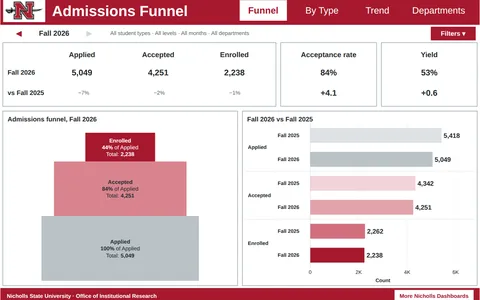
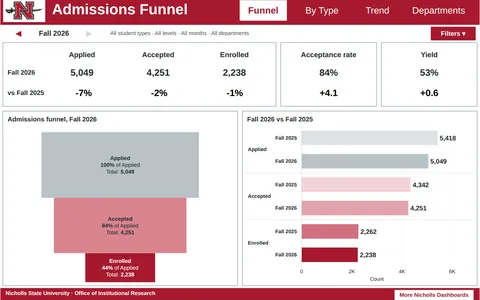
Admissions demo: match v28's label sizes and formats, funnel with Applied on top, original side drawn from its workbook

diff --git a/src/demo-dash.js b/src/demo-dash.js
@@ -48,19 +48,24 @@ function admissionsModel(D, sel) {
   };
 }
 
-// The redesign as the owner's v27 workbook (v28) lays it out (1400 × 900): red header with page buttons,
-// a fall stepper and filter summary with the filters behind one button, key figures with their change,
-// then the funnel and this fall against the one before. Tableau point sizes are drawn at 4/3 px.
+// The redesign as the owner's v28 workbook lays it out (1400 × 900), read from the .twb: zone positions,
+// the label runs' own font sizes (they override the sheets' cell styles), number formats and colors.
+// Tableau point sizes are drawn at 4/3 px. Text objects are top-aligned, as in Tableau.
 const PT = (n) => Math.round((n * 4) / 3);
 const STEP_OFF = '#d3d8da';
 const FUNNEL_FILL = ['#b9c2c6', '#d9848f', RED];
 const VS_FILL = { before: ['#dde2e4', '#f2d3d8', '#d26f7e'], sel: ['#b9c2c6', '#e3a3ac', RED] };
 const TYPE_NAME = { N: 'New FTF', T: 'Transfer', R: 'Readmit', I: 'International', A: 'Adult', Other: 'Other', grad: 'Graduate' };
+const NICHOLLS_IR = 'https://public.tableau.com/app/profile/nichollsir';
+
+// Tableau's custom formats: "*+0%;-0%;0%" and "*+#,##0.0;-#,##0.0;0.0" (a plain hyphen, blank when null).
+const tPct = (x) => (x == null || !isFinite(x) ? '' : `${x > 0 ? '+' : x < 0 ? '-' : ''}${Math.round(Math.abs(x) * 100)}%`);
+const tPts = (x) => (x == null || !isFinite(x) ? '' : x === 0 ? '0.0' : `${x > 0 ? '+' : '-'}${Math.abs(x).toFixed(1)}`);
 
 function admHeader(title, buttons, active) {
   let s = R(0, 0, W, 84, RED);
   s += R(8, 8, 123, 68, '#fff') + `<image href="${BASE}img/nicholls-n.webp" x="12" y="12" width="115" height="60" preserveAspectRatio="xMidYMid meet"/>`;
-  s += T(151, 58, title, { size: PT(32), weight: 700, fill: '#fff' });
+  s += T(151, 53, title, { size: PT(32), weight: 700, fill: '#fff' });
   [[699, 138], [861, 157], [1042, 119], [1185, 191]].forEach(([x, w], i) => {
     const on = i === active;
     s += R(x, 12, w, 60, on ? '#fff' : RED);
@@ -76,18 +81,43 @@ function filterSummary(m) {
 }
 
 function filterPanel(m) {
-  // Hidden until the Filters button is pressed, as in the workbook.
+  // Hidden until the Filters button is pressed, as in the workbook; its title row shows with it.
   let s = R(870, 131, 518, 302, '#fff', { stroke: FRAME });
+  s += `<text x="883" y="161" font-size="${PT(14)}" font-weight="700" fill="${INK}">Filters<tspan font-size="${PT(11)}" font-weight="400" fill="${MUTED}">   These apply to every page</tspan></text>`;
   const card = (x, y, title, value) => {
-    s += T(x + 4, y + 24, title, { size: PT(14), fill: INK });
-    s += R(x + 4, y + 36, 222, 30, '#fff', { stroke: '#c9cfd1' }) + T(x + 12, y + 57, value, { size: PT(12), fill: MUTED });
-    s += `<path d="M${x + 208} ${y + 47}l5 6 5-6" fill="none" stroke="${MUTED}" stroke-width="1.6"/>`;
+    s += T(x, y + 18, title, { size: PT(14), fill: INK });
+    s += R(x, y + 26, 236, 34, '#fff', { stroke: '#c9cfd1' }) + T(x + 8, y + 50, value, { size: PT(16), fill: INK });
+    s += `<path d="M${x + 218} ${y + 40}l5 6 5-6" fill="none" stroke="${MUTED}" stroke-width="1.6"/>`;
   };
   const type = m.groupKey === 'all' || m.groupKey === 'ug' ? '(All)' : TYPE_NAME[m.groupKey] || m.group;
   const level = m.groupKey === 'ug' ? 'Undergraduate' : m.groupKey === 'grad' ? 'Graduate' : '(All)';
-  card(886, 147, 'Fall term', m.fall);
-  card(886, 227, 'Student type', type); card(1136, 227, 'Level', level);
-  card(886, 307, 'Month applied', '(All)'); card(1136, 307, 'Department', '(All)');
+  card(886, 191, 'Fall term', m.fall);
+  card(886, 271, 'Student type', type); card(1136, 271, 'Level', level);
+  card(886, 351, 'Month applied', '(All)'); card(1136, 351, 'Department', '(All)');
+  return s;
+}
+
+// Tableau stacks a bar's segments in the color field's sort order; the owner's view shows the funnel
+// with Applied on top, so the stack is built from Enrolled (bottom) up to Applied (top).
+function stackFunnel(m, { cx, yT, yB, maxW, fills, inks, labelPt, underline, tour }) {
+  let s = '';
+  const app = m.cur[0] || 0, tot = m.cur.reduce((a, v) => a + (v || 0), 0);
+  const top = ticks(tot || 1, 6).top;
+  const sy = (v) => yB - ((yB - yT) * v) / top;
+  const size = labelPt, lh = Math.round(size * 1.25);
+  let acc = 0;
+  [2, 1, 0].forEach((k) => {
+    const st = ['Applied', 'Accepted', 'Enrolled'][k];
+    const v = m.cur[k] || 0, f = app ? v / app : 0, w = Math.max(maxW * f, 24);
+    const ya = sy(acc + v), yb = sy(acc);
+    const ofAcc = k && m.cur[1] ? `${pct(v / m.cur[1])} of Accepted\n` : '';
+    s += R(cx - w / 2, ya, w, yb - ya, fills[k], { tip: `${st}\n${pct(f)} of Applied\n${ofAcc}Total: ${fmt(m.cur[k])}`, tour: `${tour}-${k}` });
+    const ink = inks[k], mid = (ya + yb) / 2;
+    s += `<text x="${cx}" y="${mid - lh + size * 0.35}" text-anchor="middle" font-size="${size}" font-weight="700" fill="${ink}"${underline ? ' text-decoration="underline"' : ''}>${st}</text>`;
+    s += `<text x="${cx}" y="${mid + size * 0.35}" text-anchor="middle" font-size="${size}" fill="${ink}"><tspan font-weight="700">${pct(f)}</tspan> of Applied</text>`;
+    s += `<text x="${cx}" y="${mid + lh + size * 0.35}" text-anchor="middle" font-size="${size}" fill="${ink}">Total: <tspan font-weight="700">${fmt(m.cur[k])}</tspan></text>`;
+    acc += v;
+  });
   return s;
 }
 
@@ -95,64 +125,49 @@ function admissionsAfter(m) {
   let s = R(0, 0, W, H, '#fff');
   s += admHeader('Admissions Funnel', ['Funnel', 'By Type', 'Trend', 'Departments'], 0);
 
-  // Fall stepper: ◀ Fall 2026 ▶, an arrow greys out at the first or last fall.
+  // Fall stepper (three equal columns): ◀ Fall 2026 ▶; an arrow greys out at the first or last fall.
   const canPrev = !!m.prevCode, canNext = !!m.nextCode;
-  [[54, '◀', canPrev ? RED : STEP_OFF, canPrev ? 'prev' : ''], [157, m.fall, INK, ''], [260, '▶', canNext ? RED : STEP_OFF, canNext ? 'next' : '']].forEach(([x, t, fill, act]) => {
-    if (act) s += `<rect x="${x - 50}" y="90" width="100" height="37" fill="transparent" data-act="${act}" class="dash-act"><title>${act === 'prev' ? 'Previous fall' : 'Next fall'}</title></rect>`;
+  [[53.5, '◀', canPrev ? RED : STEP_OFF, canPrev ? 'prev' : ''], [156.5, m.fall, INK, ''], [259.5, '▶', canNext ? RED : STEP_OFF, canNext ? 'next' : '']].forEach(([x, t, fill, act]) => {
+    if (act) s += `<rect x="${x - 51}" y="90" width="102" height="37" fill="transparent" data-act="${act}" class="dash-act"><title>${act === 'prev' ? 'Previous fall' : 'Next fall'}</title></rect>`;
     s += T(x, 116, t, { anchor: 'middle', size: PT(16), weight: 700, fill });
   });
-  s += T(321, 114, filterSummary(m), { size: PT(12), fill: MUTED });
+  s += T(321, 114, filterSummary(m), { size: PT(12), fill: '#555555' });
   s += R(1258, 90, 130, 39, m.filtersOpen ? '#fff' : RED, { stroke: RED });
   s += T(1323, 116, m.filtersOpen ? 'Filters ▴' : 'Filters ▾', { anchor: 'middle', size: PT(14), weight: 700, fill: m.filtersOpen ? RED : '#fff' });
   s += `<rect x="1258" y="90" width="130" height="39" fill="transparent" data-act="filters" class="dash-act"><title>Show or hide the filters</title></rect>`;
 
-  // Key figures: Applied / Accepted / Enrolled for the fall, and the change on the fall before.
+  // Key figures: 16 pt headers, 14 pt row headers, 20 pt values; the change row is 20 pt bold black.
   s += tile(7, 136, 798, 186, '');
   const colX = (k, left) => left + ((795 - left) * (k + 0.5)) / 3;
   ['Applied', 'Accepted', 'Enrolled'].forEach((h, k) => { s += T(colX(k, 127), 178, h, { anchor: 'middle', size: PT(16), weight: 700, fill: INK }); });
   s += T(21, 230, m.fall, { size: PT(14), weight: 700, fill: INK }) + T(21, 289, `vs ${m.prevName}`, { size: PT(14), weight: 700, fill: INK });
   m.cur.forEach((v, k) => {
-    s += T(colX(k, 127), 232, fmt(v), { anchor: 'middle', size: PT(18), weight: 700, fill: INK });
-    s += T(colX(k, 133), 288, signedPct(change(v, m.before[k])), { anchor: 'middle', size: PT(12), fill: MUTED });
+    s += T(colX(k, 127), 233, fmt(v), { anchor: 'middle', size: PT(20), weight: 700, fill: INK });
+    s += T(colX(k, 133), 292, tPct(change(v, m.before[k])), { anchor: 'middle', size: PT(20), weight: 700, fill: '#000' });
   });
   [[819, 'Acceptance rate', m.acc, m.accPrev], [1113, 'Yield', m.yld, m.yldPrev]].forEach(([x, t, v, p]) => {
     s += tile(x, 136, 280, 186, '');
     s += T(x + 140, 178, t, { anchor: 'middle', size: PT(16), weight: 700, fill: INK });
-    s += T(x + 140, 232, pct(v), { anchor: 'middle', size: PT(18), weight: 700, fill: INK });
-    s += T(x + 140, 291, signedPts(v != null && p != null ? (v - p) * 100 : null), { anchor: 'middle', size: PT(18), weight: 700, fill: INK });
+    s += T(x + 140, 233, pct(v), { anchor: 'middle', size: PT(20), weight: 700, fill: INK });
+    s += T(x + 140, 292, tPts(v != null && p != null ? (v - p) * 100 : null), { anchor: 'middle', size: PT(20), weight: 700, fill: '#000' });
   });
 
-  // Funnel: one stacked bar, each status as tall and as wide as its count, Applied at the base.
+  // Funnel: one stacked bar sized by count, Applied on top; 12 pt labels.
   s += tile(7, 336, 686, 510, `Admissions funnel, ${m.fall}`);
-  const [app] = m.cur.map((v) => v || 0);
-  const tot = m.cur.reduce((a, v) => a + (v || 0), 0);
-  const yB = 832, yT = 382, top = ticks(tot || 1, 6).top, cx = 350, maxW = 460;
-  const sy = (v) => yB - ((yB - yT) * v) / top;
-  let acc = 0;
-  ['Applied', 'Accepted', 'Enrolled'].forEach((st, k) => {
-    const v = m.cur[k] || 0, f = app ? v / app : 0, w = Math.max(maxW * f, 24);
-    const ya = sy(acc + v), yb = sy(acc);
-    const ofAcc = k && m.cur[1] ? `${pct(v / m.cur[1])} of Accepted\n` : '';
-    s += R(cx - w / 2, ya, w, yb - ya, FUNNEL_FILL[k], { tip: `${st}\n${pct(f)} of Applied\n${ofAcc}Total: ${fmt(m.cur[k])}`, tour: `adm-funnel-${k}` });
-    const ink = k === 2 ? '#fff' : INK, mid = (ya + yb) / 2;
-    s += T(cx, mid - 14, st, { anchor: 'middle', size: PT(12), weight: 700, fill: ink });
-    s += `<text x="${cx}" y="${mid + 6}" text-anchor="middle" font-size="${PT(12)}" fill="${ink}"><tspan font-weight="700">${pct(f)}</tspan> of Applied</text>`;
-    s += `<text x="${cx}" y="${mid + 26}" text-anchor="middle" font-size="${PT(12)}" fill="${ink}">Total: <tspan font-weight="700">${fmt(m.cur[k])}</tspan></text>`;
-    acc += v;
-  });
+  s += stackFunnel(m, { cx: 350, yT: 380, yB: 836, maxW: 460, fills: FUNNEL_FILL, inks: [INK, INK, '#fff'], labelPt: PT(12), tour: 'adm-funnel' });
 
-  // This fall against the fall before: Status / Academic Period rows, six shades.
+  // This fall against the fall before: Status / Academic Period rows, six shades, 14 pt bold labels.
   s += tile(707, 336, 686, 510, `${m.fall} vs ${m.prevName}`);
   const rows = [];
   ['Applied', 'Accepted', 'Enrolled'].forEach((st, k) => {
     if (m.prevCode) rows.push({ st, k, lab: m.prevFall, v: m.before[k], fill: VS_FILL.before[k] });
     rows.push({ st, k, lab: m.fall, v: m.cur[k], fill: VS_FILL.sel[k] });
   });
-  const x0 = 905, x1 = 1330, rT = 372, rB = 792, band = (rB - rT) / rows.length;
+  const x0 = 880, x1 = 1320, rT = 380, rB = 790, band = (rB - rT) / rows.length;
   const { top: mx, step } = ticks(Math.max(...rows.map((r) => r.v || 0), 1), 5);
   const sx = (v) => x0 + ((x1 - x0) * v) / mx;
   for (let t = 0; t <= mx + 1e-9; t += step) s += L(sx(t), rT, sx(t), rB, '#eceeef') + T(sx(t), rB + 20, short(Math.round(t)), { anchor: 'middle', size: PT(11), fill: INK });
-  s += T((x0 + x1) / 2, rB + 44, 'Count', { anchor: 'middle', size: PT(11), weight: 700, fill: INK });
+  s += T((x0 + x1) / 2, rB + 42, 'Count', { anchor: 'middle', size: PT(11), fill: INK });
   const per = m.prevCode ? 2 : 1;
   rows.forEach((r, i) => {
     const y = rT + i * band, bh = Math.min(band * 0.62, 50);
@@ -160,55 +175,68 @@ function admissionsAfter(m) {
       s += T(723, y + (band * per) / 2 + 5, r.st, { size: PT(11), weight: 700, fill: INK });
       if (i) s += L(717, y, 1383, y, '#d5dadd');
     }
-    s += T(810, y + band / 2 + 5, r.lab, { size: PT(11), weight: 700, fill: INK });
+    s += T(803, y + band / 2 + 5, r.lab, { size: PT(11), weight: 700, fill: INK });
     s += R(x0, y + (band - bh) / 2, sx(r.v || 0) - x0, bh, r.fill, { tip: `${r.st}, ${r.lab}\nCount: ${fmt(r.v)}` });
     s += T(sx(r.v || 0) + 6, y + band / 2 + 7, fmt(r.v), { size: PT(14), weight: 700, fill: INK });
   });
   s += L(x0, rT, x0, rB, '#c9cfd1');
 
-  // Footer band with the link out to the rest of the catalog.
+  // Footer band (text top-aligned with 4 px padding, 15 px on the left) and the link to Nicholls IR on Tableau Public.
   s += R(0, 853, W, 47, RED);
-  s += T(19, 882, 'Nicholls State University   ·   Office of Institutional Research', { size: PT(12), weight: 600, fill: '#fff' });
-  s += R(1152, 859, 230, 35, '#fff', { stroke: '#fff' }) + T(1267, 882, 'More Nicholls Dashboards', { anchor: 'middle', size: PT(12), weight: 700, fill: RED });
-  s += `<a href="https://www.nicholls.edu/irep/dashboards/" target="_blank" rel="noopener"><rect x="1152" y="859" width="230" height="35" fill="transparent" class="dash-act"><title>More Nicholls dashboards (opens a new tab)</title></rect></a>`;
+  s += T(15, 873, 'Nicholls State University   ·   Office of Institutional Research', { size: PT(12), weight: 600, fill: '#fff' });
+  s += R(1152, 859, 230, 35, '#fff', { stroke: '#fff' }) + T(1267, 879, 'More Nicholls Dashboards', { anchor: 'middle', size: PT(12), weight: 700, fill: RED });
+  s += `<a href="${NICHOLLS_IR}" target="_blank" rel="noopener"><rect x="1152" y="859" width="230" height="35" fill="transparent" class="dash-act"><title>More Nicholls dashboards on Tableau Public (opens a new tab)</title></rect></a>`;
 
   if (m.filtersOpen) s += filterPanel(m);
   return s;
 }
 
+// The original Admissions Funnel page as its .twb lays it out: a 1000 × 800 dashboard (stretched to this
+// frame; text scaled by 1.2), title over one stacked funnel in Nicholls red and gray with 14 pt labels and
+// no axis, four filters down the right (Level, Academic Period, Month Applied, Student Pop) and the N
+// monogram along the bottom. Tableau's default fonts are assumed where the file sets none.
+const OX = (x) => x * 1.4, OY = (y) => y * 1.125, OPT = (pt) => Math.round(pt * (4 / 3) * 1.2);
+const ORIG_FILL = ['#b7c2cc', '#c63b51', '#a1212f'];
+const ORIG_POP = { N: 'New FTF', T: 'Transfer', R: 'Readmit', I: 'International', A: 'Adult', Other: 'Other', grad: 'Graduate ONLY' };
+
+function origList(x, y, title, items, { radio = false, checked = () => true } = {}) {
+  let s = T(x, y + OPT(9), title, { size: OPT(9), weight: 700, fill: '#333' });
+  items.forEach((v, i) => {
+    const yy = y + OPT(9) + 10 + i * 22, on = checked(v, i);
+    if (radio) {
+      s += `<circle cx="${x + 6}" cy="${yy + 7}" r="6" fill="#fff" stroke="#888"/>` + (on ? `<circle cx="${x + 6}" cy="${yy + 7}" r="3" fill="#333"/>` : '');
+    } else {
+      s += R(x, yy + 1, 12, 12, '#fff', { stroke: '#888' }) + (on ? `<path d="M${x + 2} ${yy + 7}l3 3 5-6" fill="none" stroke="#333" stroke-width="1.4"/>` : '');
+    }
+    s += T(x + 18, yy + 12, v, { size: OPT(9), fill: '#333' });
+  });
+  return s;
+}
+
 function admissionsBefore(m) {
   let s = R(0, 0, W, H, '#fff');
-  s += T(16, 48, 'Admissions Funnel', { size: 26, fill: '#333' });
-  // The original: one stacked shape sized by count, Tableau's default colors, raw field names.
-  s += plainTitle(16, 100, 'Admissions Funnel - Total');
-  const x0 = 120, x1 = 1170, y0 = 120, y1 = 690;
-  const tot = m.cur.reduce((a, v) => a + (v || 0), 0);
-  const { top: mx, step } = ticks(tot || 1, 6);
-  const sy = (v) => y1 - ((y1 - y0) * v) / mx;
-  for (let t = 0; t <= mx + 1e-9; t += step) { s += L(x0, sy(t), x1, sy(t), '#e6e6e6') + T(x0 - 8, sy(t) + 5, short(Math.round(t)), { anchor: 'end', size: 13, fill: '#666' }); }
-  s += T(36, (y0 + y1) / 2, 'COUNT', { size: 13, fill: '#666', rotate: -90, anchor: 'middle' });
-  const colors = { Accepted: TAB10[0], Applied: TAB10[1], Enrolled: TAB10[2] };
-  let acc = 0;
-  const cx = (x0 + x1) / 2, maxW = 600, app = m.cur[0] || 1;
-  ['Applied', 'Accepted', 'Enrolled'].forEach((st, k) => {
-    const v = m.cur[k] || 0, w = Math.max(60, (maxW * v) / app);
-    const ya = sy(acc + v), yb = sy(acc);
-    s += R(cx - w / 2, ya, w, yb - ya, colors[st], { tip: `STATUS: ${st}\nSUM(COUNT): ${fmt(m.cur[k])}`, tour: `adm-before-${k}` });
-    s += T(cx, (ya + yb) / 2 - 4, st, { anchor: 'middle', size: 13, fill: '#fff' }) + T(cx, (ya + yb) / 2 + 13, fmt(m.cur[k]), { anchor: 'middle', size: 13, fill: '#fff' });
-    acc += v;
-  });
-  s += L(x0, y1, x1, y1, '#999');
-  // Color legend and the filter column
-  let lx = 1210;
-  s += T(lx, 100, 'STATUS', { size: 13, weight: 700, fill: '#333' });
-  Object.entries(colors).forEach(([k, c], i) => { s += R(lx, 110 + i * 20, 12, 12, c) + T(lx + 18, 121 + i * 20, k, { size: 12, fill: '#333' }); });
-  s += rawFilter(lx, 180, 175, 'ACADEMIC_PERIOD', String(m.fallCode));
-  s += rawFilter(lx, 240, 175, 'MONTH_OF_APP', '', ['(All)', '1', '2', '3', '4', '5', '6', '7', '8', '9', '10', '11', '12']);
-  const pops = { 'New freshmen': 'N', Transfer: 'T', Readmit: 'R', International: 'I', Adult: 'A', Other: 'Other', Graduate: 'Grad' };
-  s += rawFilter(lx, 520, 175, 'STUDENT_POP', '', [pops[m.group] ? pops[m.group] : '(All)']);
-  s += rawFilter(lx, 580, 175, 'LEVELofAPPLICANT', m.group === 'Graduate' || m.group === 'Undergraduate' ? m.group : '(All)');
-  // The banner image along the bottom of the original
-  s += R(16, 720, 1170, 160, '#e9e9e9') + T(600, 808, 'banner image', { anchor: 'middle', size: 16, fill: '#999' });
+  // Dashboard title: "<Sheet Name>", then the instruction line in 12 pt.
+  s += T(OX(12), OY(12) + OPT(18), 'Admissions Funnel', { size: OPT(18), weight: 600, fill: '#333' });
+  s += T(OX(12), OY(64), 'Choose Undergraduate and/or Graduate Applicants and Academic Period.', { size: OPT(12), fill: '#333' });
+
+  // Funnel sheet: title "<Level> Applicants in <Academic Period> Semester(s)", no axis.
+  const level = m.groupKey === 'ug' ? 'Undergraduate' : m.groupKey === 'grad' ? 'Graduate' : 'All';
+  s += T(OX(16), OY(79) + OPT(15), `${level} Applicants in ${m.fall} Semester(s)`, { size: OPT(15), weight: 600, fill: '#333' });
+  s += stackFunnel(m, { cx: OX(431.5), yT: OY(112), yB: OY(624), maxW: 620, fills: ORIG_FILL, inks: ['#333', '#fff', '#fff'], labelPt: OPT(14), underline: true, tour: 'adm-before' });
+
+  // The N monogram along the bottom (fit to the image zone, top-left).
+  s += `<image href="${BASE}img/nicholls-n.webp" x="${OX(12)}" y="${OY(634)}" width="${OY(154) * (300 / 153)}" height="${OY(154)}" preserveAspectRatio="xMinYMin meet"/>`;
+
+  // Filters down the right, in the original's order and modes.
+  const fx = OX(859);
+  s += origList(fx, OY(77), 'Level', ['(All)', 'Graduate', 'Undergraduate'], { radio: true, checked: (v) => v === (m.groupKey === 'ug' ? 'Undergraduate' : m.groupKey === 'grad' ? 'Graduate' : '(All)') });
+  const falls = ['(All)', ...Array.from({ length: 12 }, (_, i) => `Fall ${2015 + i}`)];
+  s += origList(fx, OY(170), 'Academic Period', falls, { checked: (v) => v === m.fall });
+  s += origList(fx, OY(455), 'Month Applied', ['(All)', 'Jan', 'Feb', 'Mar', 'Apr', 'May', 'Jun', 'Jul', 'Aug', 'Sept', 'Oct', 'Nov', 'Dec']);
+  const pop = ORIG_POP[m.groupKey] || '(All)';
+  s += T(fx, OY(740) + OPT(9), 'Student Pop', { size: OPT(9), weight: 700, fill: '#333' });
+  s += R(fx, OY(740) + OPT(9) + 8, OX(129), 26, '#fff', { stroke: '#bbb' }) + T(fx + 6, OY(740) + OPT(9) + 27, pop, { size: OPT(9), fill: '#333' });
+  s += `<path d="M${fx + OX(129) - 16} ${OY(740) + OPT(9) + 18}l4 5 4-5" fill="none" stroke="#555" stroke-width="1.4"/>`;
   return s;
 }
 
@@ -367,7 +395,7 @@ function ftfBefore(m) {
 // ── Component ───────────────────────────────────────────────────────
 const DASHES = {
   admissions: { label: 'Admissions', file: 'admissions.json', model: admissionsModel, before: admissionsBefore, after: admissionsAfter,
-    beforeNote: 'Before: one funnel sized by count, default colors, raw field names, filters stacked down the side.',
+    beforeNote: 'Before: the funnel on its own, labels only inside the shapes, four filter lists down the side and the logo along the bottom.',
     afterNote: 'After: step through falls with the arrows, the three counts and their change first, rates beside them, then the funnel and this fall against last; the filters wait behind one button.' },
   ftf: { label: 'First-Time Freshmen', file: 'ftf.json', model: ftfModel, before: ftfBefore, after: ftfAfter,
     beforeNote: 'Before: every race on one axis, so the smaller groups flatten against the bottom; term codes instead of names.',
